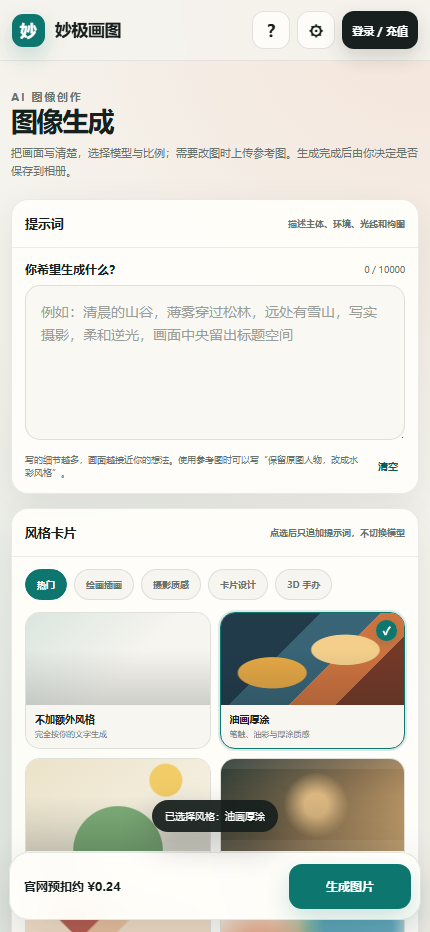
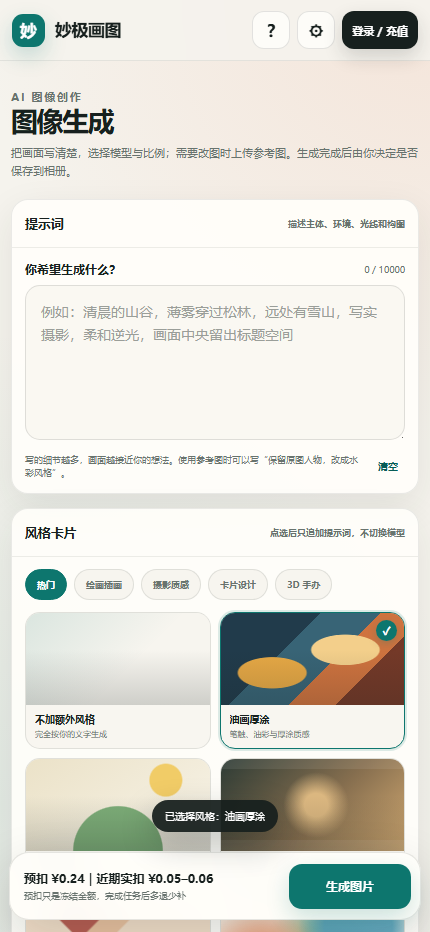
fix: clarify precharge and actual charge

Changed region(s): [[0.0605, 0.9335, 0.4837, 0.9646]]

diff --git a/android/app/src/main/assets/index.html b/android/app/src/main/assets/index.html
@@ -968,7 +968,6 @@
       .reference-preview { grid-template-columns: 78px minmax(0, 1fr); }
       .reference-preview img { width: 78px; height: 78px; }
       .action-dock { min-height: 68px; padding: 9px; }
-      .price-copy span { display: none; }
       #generateButton { min-width: 122px; }
       .modal-mask { padding: 8px; padding-bottom: max(8px, env(safe-area-inset-bottom)); }
       .modal { max-height: 94vh; border-radius: 20px; }
@@ -1538,11 +1537,11 @@
       const cents = estimateCents();
       if (currentModel.model === "gpt-image-2.5-flare"
           && qualitySelect.value === "low" && resolutionSelect.value === "1k") {
-        priceTitle.textContent = "官网预扣约 ¥0.24";
-        priceDetail.textContent = "近期实扣约 ¥0.05–0.06，最终以任务结算为准";
+        priceTitle.textContent = "预扣 ¥0.24｜近期实扣 ¥0.05–0.06";
+        priceDetail.textContent = "预扣只是冻结金额，完成任务后多退少补";
       } else if (cents > 0) {
-        priceTitle.textContent = `官网预扣约 ¥${(cents / 100).toFixed(2)}`;
-        priceDetail.textContent = "任务完成后按实际费用多退少补";
+        priceTitle.textContent = `预扣 ¥${(cents / 100).toFixed(2)}`;
+        priceDetail.textContent = "完成后的实扣金额可能低于预扣，多退少补";
       } else {
         priceTitle.textContent = "价格以提交任务时为准";
       }
